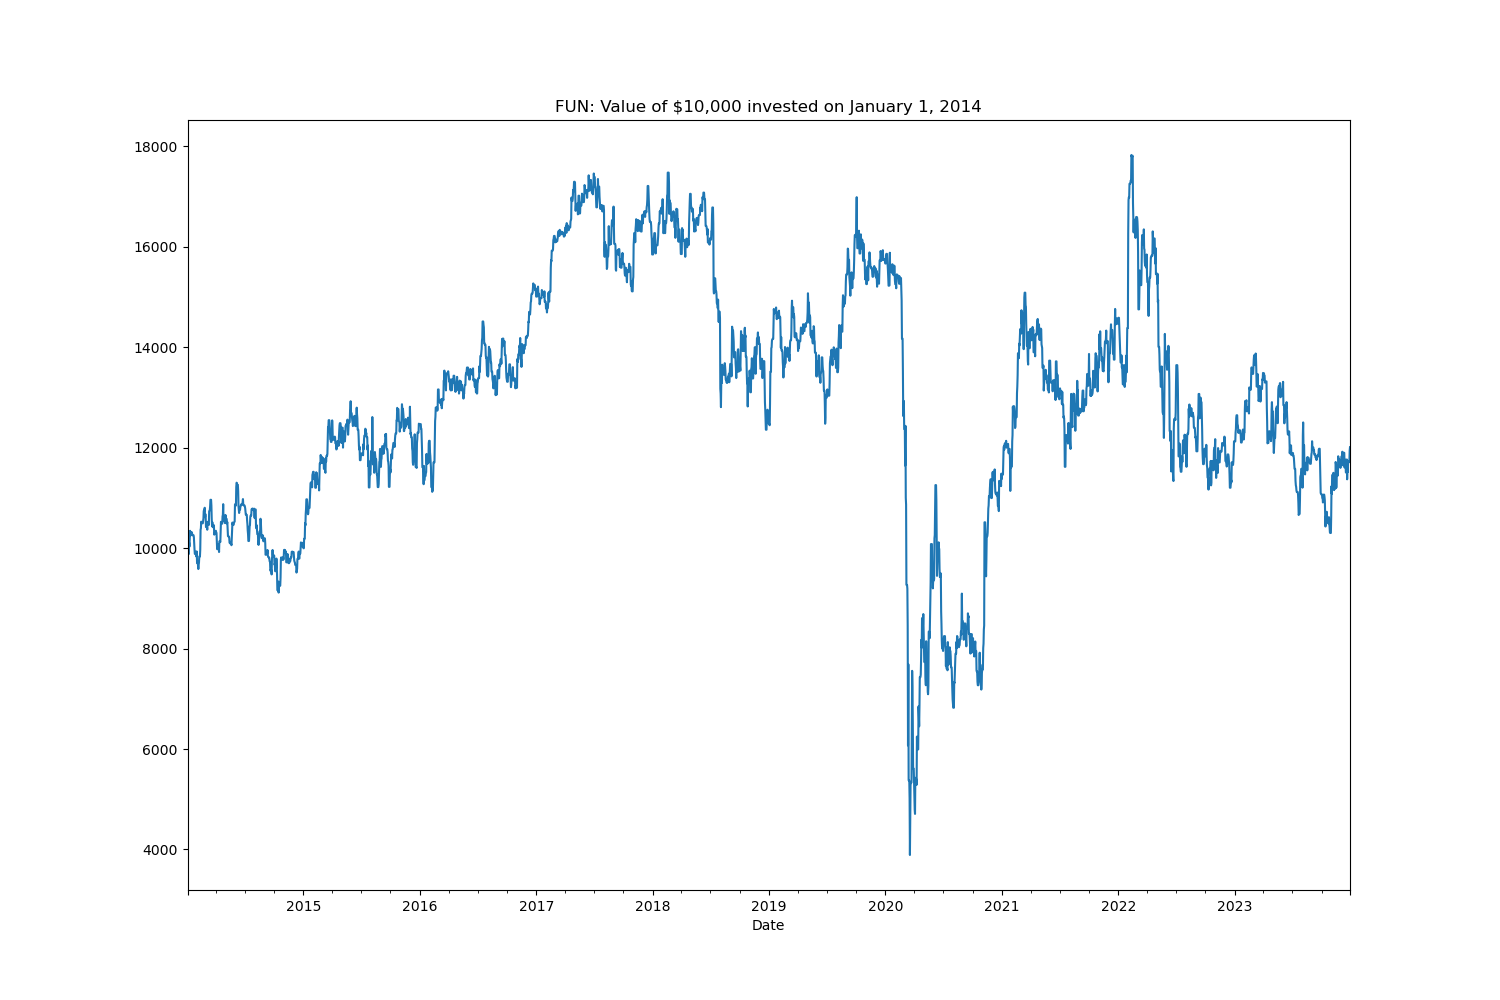
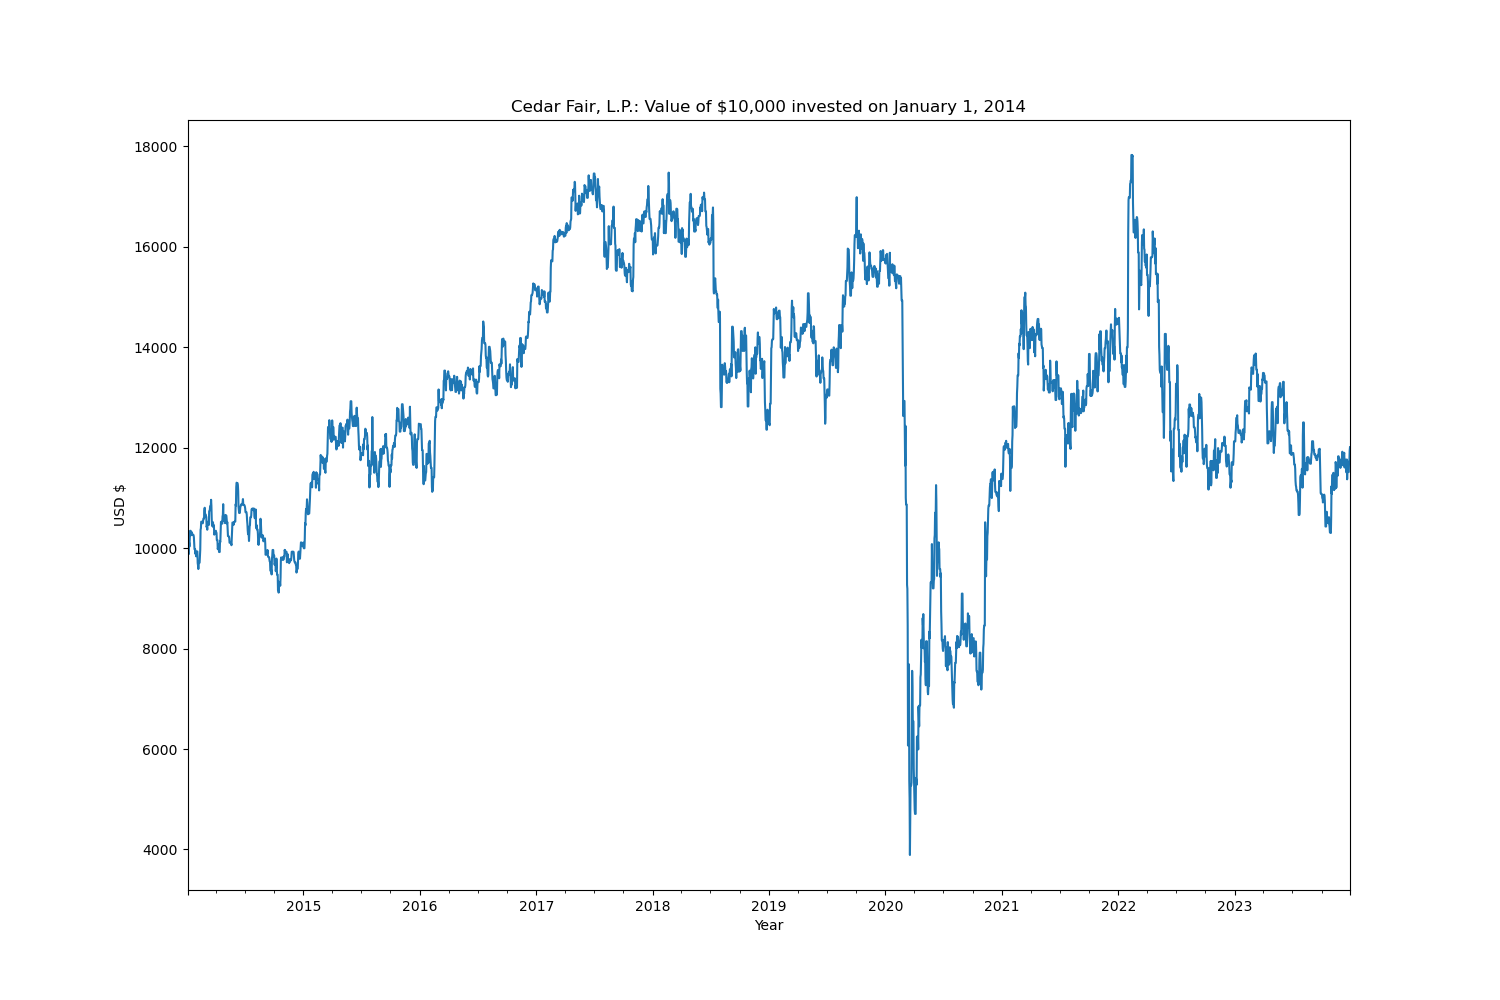
updated title of anja's invest 10000 graphs

diff --git a/anja_analysis.py b/anja_analysis.py
@@ -22,6 +22,20 @@ def invest_10000(stock_returns_cumulative):
     plt.savefig("css/images/graphs/invest_10000.png")
     plt.close()
 
+def invest_10000_individual(tickers):
+    for ticker in tickers:
+        stock_prices = yf.download(ticker, start="2014-01-01", end="2023-12-31")["Adj Close"]
+        stock_prices = stock_prices.asfreq(freq="D", method="ffill")
+        stock_returns = stock_prices.pct_change()
+        stock_returns.iloc[0]=0
+        stock_returns_cumulative = (stock_returns+1).cumprod()
+        stock_invest_10000 = 10000*stock_returns_cumulative
+        stock_invest_10000.plot(title= stocks.tickers[ticker].info["longName"] +": Value of $10,000 invested on January 1, 2014", figsize=(15,10))
+        plt.xlabel("Year")
+        plt.ylabel("USD $")
+        plt.savefig("css/images/graphs/"+ticker+"_invest_10000.png")
+        plt.close()
+
 def cagr(data, periods):
     final_value = data.iloc[-1]
     starting_value = data.iloc[0]
@@ -105,8 +119,9 @@ stocks = results[3]
 #invest_10000(stock_returns_cumulative)
 toolkit_companies = companies
 #financial_metrics(tickers, toolkit_companies)
+invest_10000_individual(tickers)
 
-
+"""
 #10 yr
 ten_yrs = cagr(stock_prices["2014-01-01":"2023-12-31"], 10)
 
@@ -119,6 +134,6 @@ three_yrs = cagr(stock_prices["2021-01-01":"2023-12-31"], 3)
 #1 yr
 one_yr = cagr(stock_prices["2023-01-01":"2023-12-31"], 1) 
 
-
+"""
 
 
